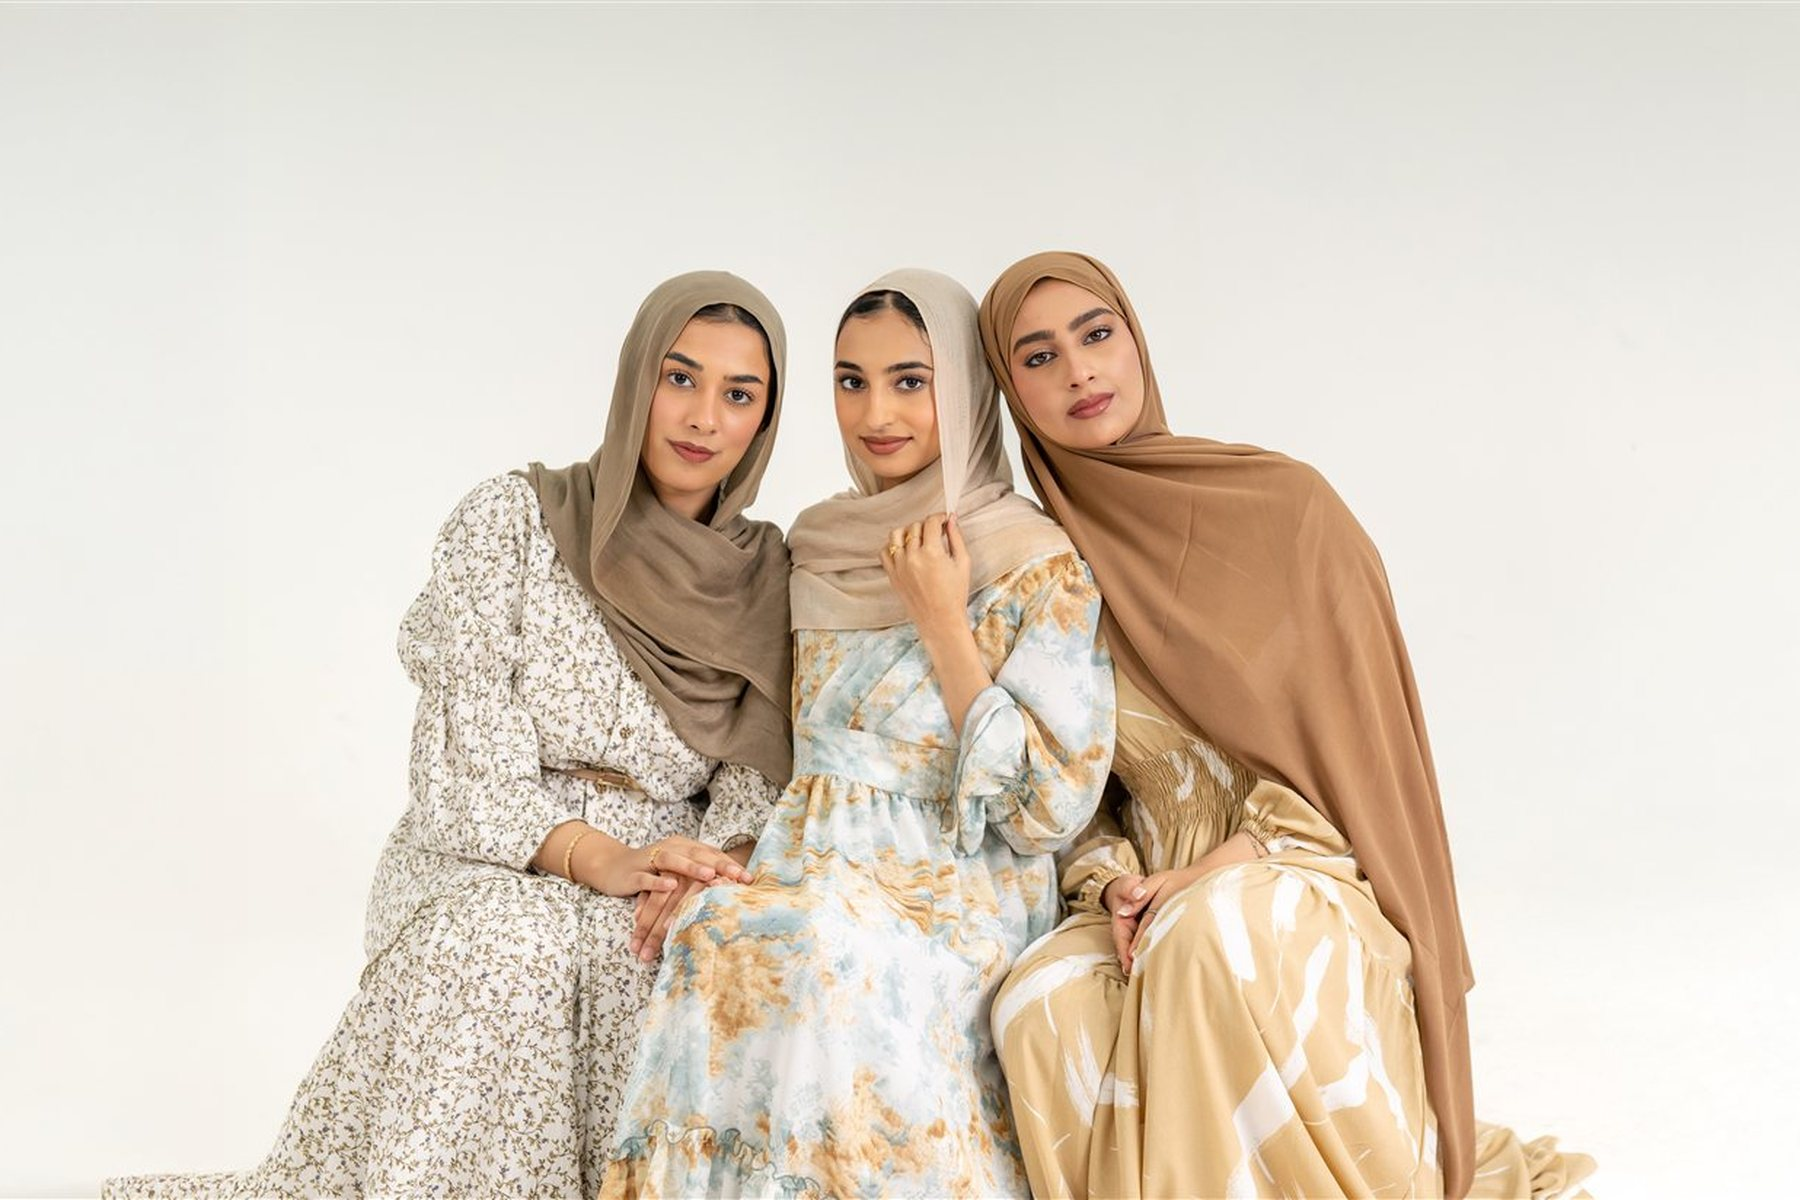
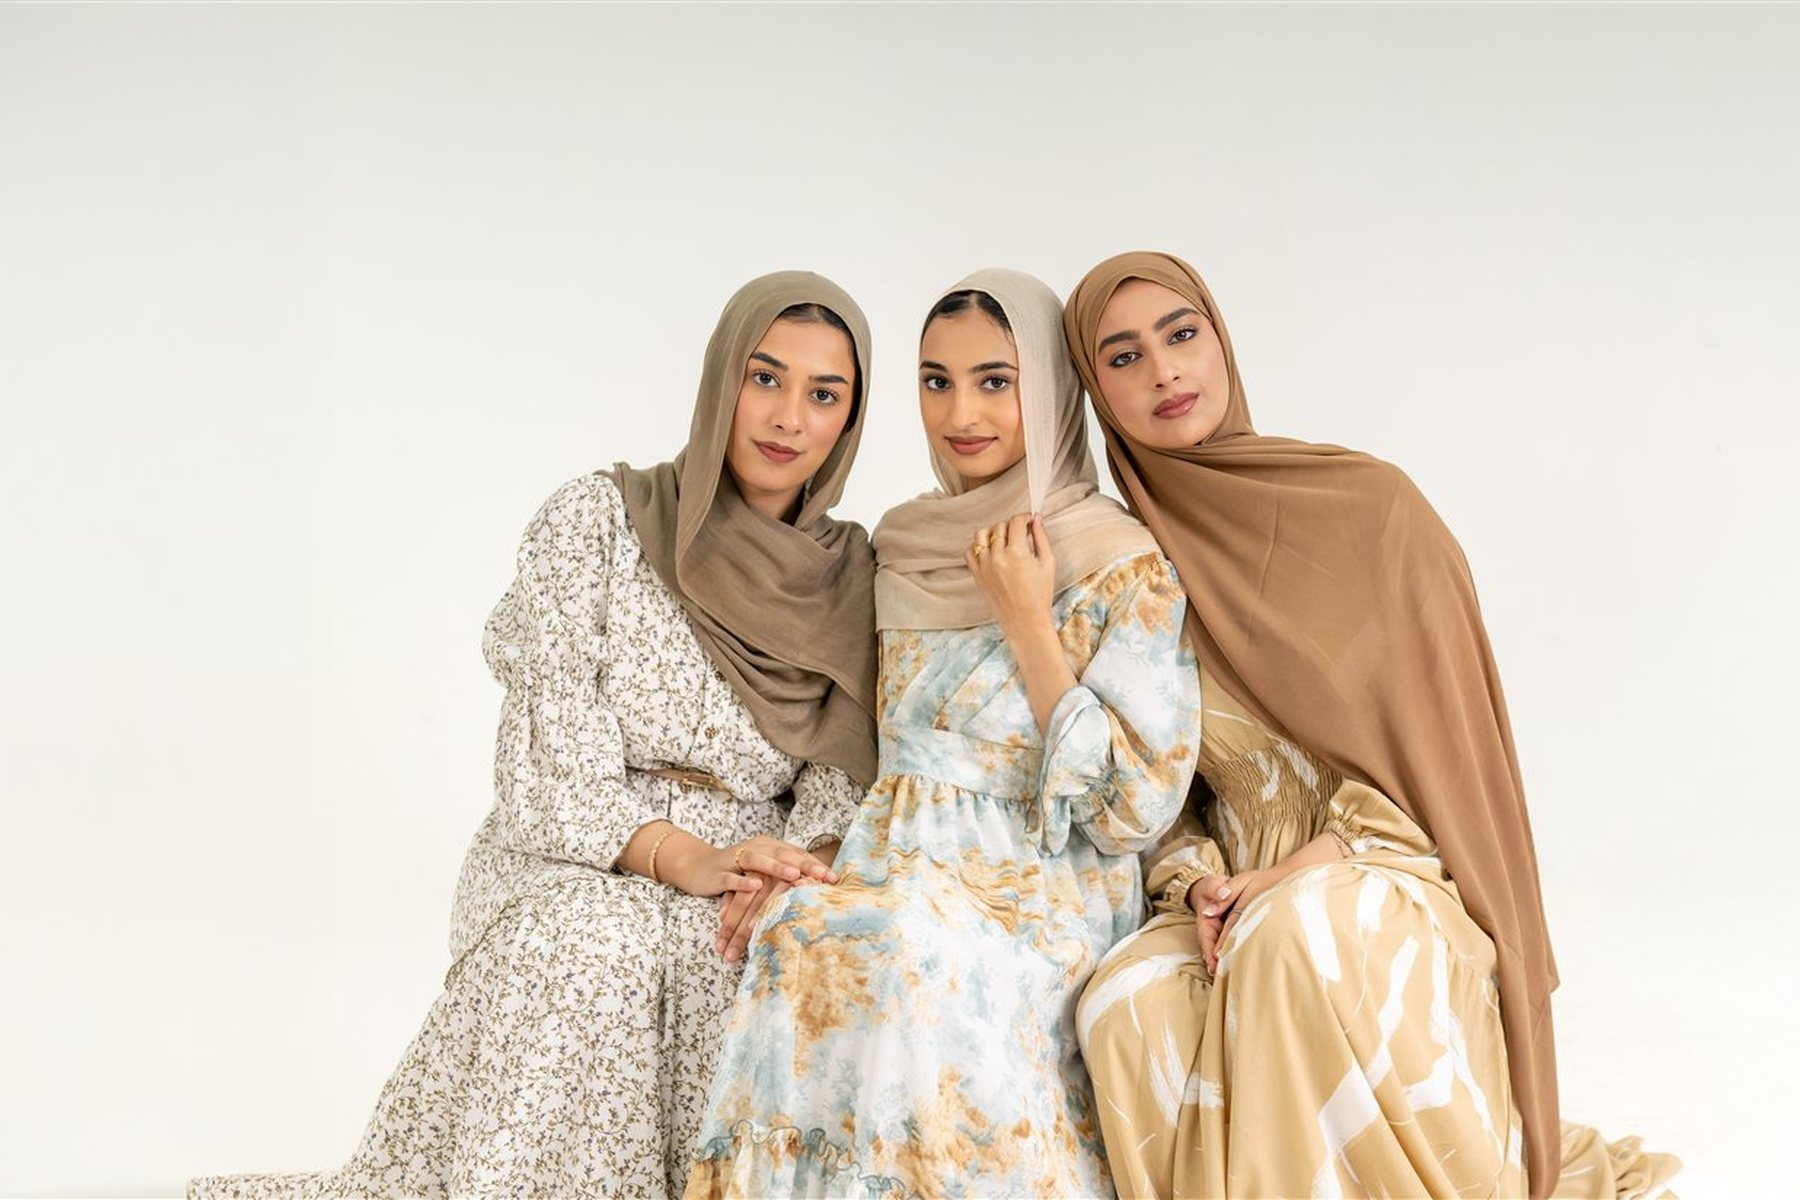
Frame the hero to the design's composition
cover() gains focus_x/focus_y so a crop can be placed against the subject
rather than the frame centre. The home hero now pulls down and left: it drops
the empty studio wall above the models and seats the group right of centre,
which is where the design puts it so the glass panel has clear ground
bottom-left to sit on.

Note for the record: the hero appearing "missing" beforehand was a stale
screenshot, not a defect — the image was loaded, eager, and painting. The DOM
said so (complete, naturalWidth 1800, elementFromPoint returning the IMG) while
the capture did not. Trust the measurement over the picture when they disagree.

diff --git a/design/_tools/prepare_images.py b/design/_tools/prepare_images.py
@@ -53,14 +53,37 @@ def load(path: Path) -> Image.Image:
     return im.convert("RGB")
 
 
-def cover(im: Image.Image, w: int, h: int, top_anchor: bool = True) -> Image.Image:
+def cover(
+    im: Image.Image,
+    w: int,
+    h: int,
+    top_anchor: bool = True,
+    focus_x: float = 0.5,
+    focus_y: float = 0.5,
+) -> Image.Image:
+    """Cover-crop to w×h.
+
+    focus_x / focus_y place the crop window as a fraction of the available
+    slack (0 = hard left/top, 1 = hard right/bottom). They exist because a
+    centred crop of a studio frame keeps the empty wall above the model: on the
+    home hero that dead band sat directly against the porcelain ground and read
+    as a rendering fault rather than as space. Pulling the window down removes
+    the headroom; pulling it left seats the group RIGHT of centre, which is
+    where the design puts it so the glass panel can sit bottom-left.
+    """
     sw, sh = im.size
     scale = max(w / sw, h / sh)
     im = im.resize((max(1, round(sw * scale)), max(1, round(sh * scale))), Image.LANCZOS)
-    left = (im.width - w) // 2
-    top = 0 if top_anchor else (im.height - h) // 2
-    if not top_anchor:
-        top = max(0, min(top, im.height - h))
+
+    if top_anchor:
+        left = round((im.width - w) * focus_x)
+        top = 0
+    else:
+        left = round((im.width - w) * focus_x)
+        top = round((im.height - h) * focus_y)
+
+    left = max(0, min(left, im.width - w))
+    top = max(0, min(top, im.height - h))
     return im.crop((left, top, left + w, top + h))
 
 
@@ -98,7 +121,13 @@ def main() -> int:
             continue
         out = temp / f"editorial-{name}.jpg"
         if name.startswith("hero"):
-            cover(load(src), HERO_W, HERO_H, top_anchor=False).save(out, quality=84, optimize=True, progressive=True)
+            # Down and to the left: drop the empty studio wall above the models,
+            # and seat them right of centre so the design's glass panel has
+            # clear ground bottom-left to sit on.
+            cover(
+                load(src), HERO_W, HERO_H,
+                top_anchor=False, focus_x=0.34, focus_y=0.82,
+            ).save(out, quality=84, optimize=True, progressive=True)
         else:
             cover(load(src), STORY_W, STORY_H).save(out, quality=82, optimize=True, progressive=True)
         manifest.append((str(out.relative_to(root)), str(src), out.stat().st_size))
